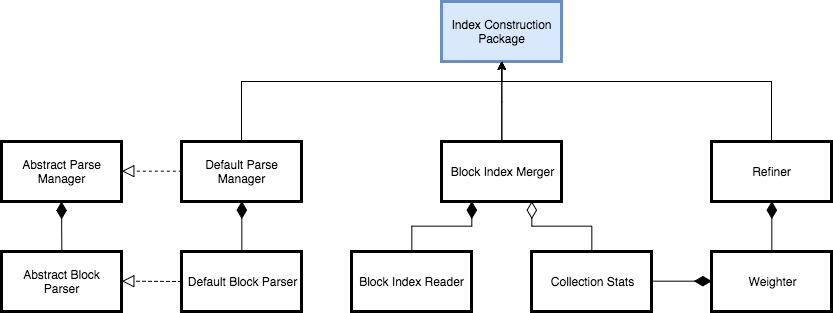
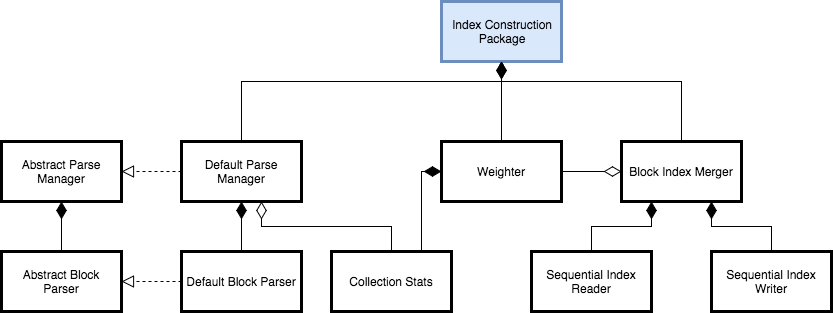
Update readme (stem + remove of refine step)

diff --git a/README.md b/README.md
@@ -53,23 +53,23 @@ optional arguments:
 
 ## Architecture
 
-Describe global architecture here & pertinent details.
-
 ### Global architecture
 
 #### Index Construction
 
-Constructing the inverted index requires 3 steps:
-* Parse: build a simple inverted index for each "block" of the collection
-* Merge: merge the block indexes and collect statistics on collection
-* Refine: use the statistics to refine the index with weights
+The construction of the inverted index follows 2 steps:
+* Parse: build a simple inverted index for each "block" of the collection and collect statistics. Some cleaning in done on the data:
+    * Porter2 stemming (using the `PorterStemmer` package)
+    * Removal of common words
+* Merge: merge the block indexes and use the statistics to refine the posting lists with weights
 
-Below is the class diagram for the Index Construction Module:
+Below is the class diagram for the Index Construction Module: **outdated**
 
 ![Results](./img/index_construction.png)
 
-The Parse step is multi-threaded(-ish because of [Python GLI](https://en.wikipedia.org/wiki/Global_interpreter_lock)).
-The Merge step outputs various statistics on the collection (e.g. average length of documents, etc.) used to compute advanced weigthing functions.
+The Parse step is multi-threaded(-ish because of [Python GLI](https://en.wikipedia.org/wiki/Global_interpreter_lock)). It outputs various statistics on the collection (e.g. average length of documents) used to compute advanced weighting functions.
+
+The Merge step is a many-producers one-consumer process that was implemented with no concurrent programming.
 
 #### Querying
 
@@ -81,6 +81,8 @@ Two types of queries are supported:
 ![Results](./img/queries.png)
 
 The inverted index file is accessed through the Collection Index Reader. The Reader maintains a map of the position of each term in the index file, which insures a O(1) access to posting lists.
+
+No k-Top algorithm was implemented, for the response times are already acceptable.
 
 #### Evaluation
 
@@ -140,12 +142,14 @@ The duration of each step of the index construction is displayed below for both 
 
 | Steps | CACM  | CS276 |
 | --- | --- | --- |
-| Parse (s)   | 0.5  | 57   |
-| Merge (s)   | 0.4  | 60   |
-| Refine (s)   | 0.9  | 90   |
-| **Total (s)** | 1.8  | 207  |
+| Parse (s)   | 0.9  | 74   |
+| Merge (s)   | 0.8  | 105   |
+| **Total (s)** | 1.7  | 179  |
 
-As we can see, the most expensive step is the refinement of the index: computing weights involves costly mathematical operations whereas parsing and merging involves simple read and copy operations.
+The steps are quite equivalent in complexity for both use expensive operations: 
+
+* the stemming in the Parse step
+* the weights computations in the Merge step (costly mathematical operations)
 
 ### Index size
 
@@ -162,7 +166,7 @@ term_id:doc_id, freq, weight|doc_id, freq, weight| ... |doc_id, freq, weight
 | **Total (MB)** | 2.7 | 335.7 |
 | **Ratio (%)** | 20.6 | 77.9 |
 
-From the above table, we can see that this storage method is not viable for real-life search engines.
+From the `Ratio` line of the above table, we can see that this storage method is not viable for real-life search engines.
 
 As a solution, one would implement a compression method to decrease the size of the index.
 
@@ -211,4 +215,4 @@ This plot sums up the results of the engine evaluation:
 
 ![Results](./img/results_riw.png)
 
-One function behaves better than the others: the Evolutionary Learned Scheme (#7).
+One function behaves better than the others with a MAP of 0.533: the Evolutionary Learned Scheme (#7). However this weight needs an extra statistic hence the construction of the index lasts longer with it (~ 12% longer).
